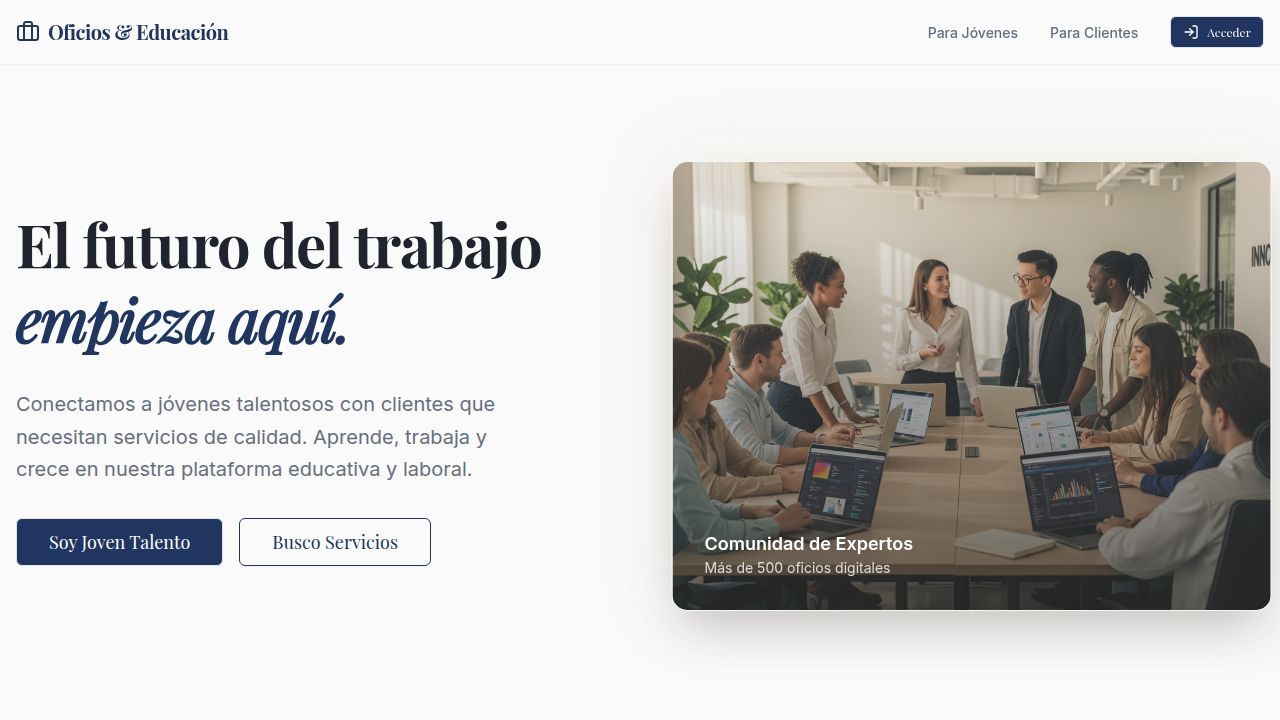
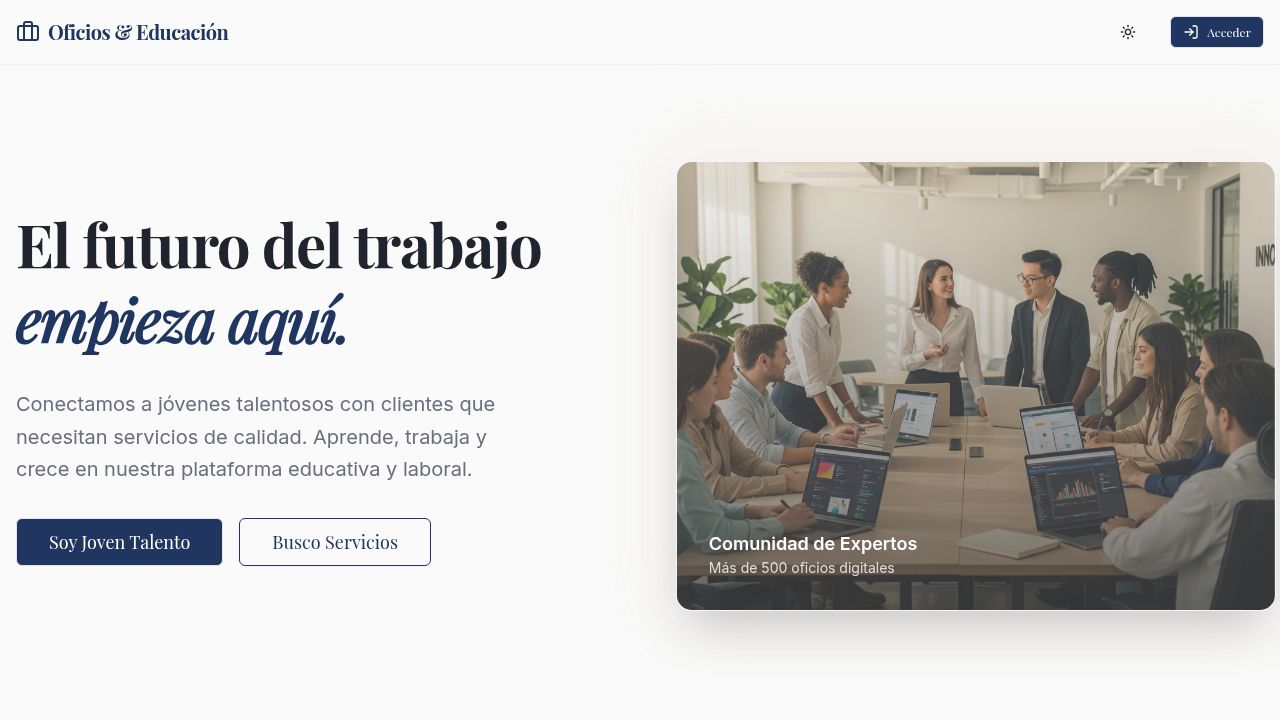
Add interactive notification center and dark mode toggle to app
Adds a notification dropdown menu with unread indicators and a dark/light mode toggle button to the application layout. Also integrates a schedule calendar into the young talent dashboard.

Replit-Commit-Author: Agent
Replit-Commit-Session-Id: 5f4dba74-aeb8-4fcd-b1c0-9943158faab3
Replit-Commit-Checkpoint-Type: full_checkpoint
Replit-Commit-Event-Id: 52b18488-e156-4f48-922d-1d2c44283cdb
Replit-Commit-Screenshot-Url: https://storage.googleapis.com/screenshot-production-us-central1/24c9d968-7bf2-47d6-997f-ea923057b096/5f4dba74-aeb8-4fcd-b1c0-9943158faab3/rmZ1bWy
Replit-Helium-Checkpoint-Created: true

diff --git a/client/src/pages/dashboard-young.tsx b/client/src/pages/dashboard-young.tsx
@@ -16,6 +16,7 @@ import { QuizModal } from "@/components/quiz-modal";
 import { Separator } from "@/components/ui/separator";
 import { ScrollArea } from "@/components/ui/scroll-area";
 import { Textarea } from "@/components/ui/textarea";
+import { ScheduleCalendar } from "@/components/schedule-calendar";
 
 export default function YoungDashboard() {
   const { toast } = useToast();
@@ -98,10 +99,11 @@ export default function YoungDashboard() {
         </div>
 
         <Tabs defaultValue="available" className="w-full">
-          <TabsList className="mb-6 h-auto p-1 bg-muted/30 rounded-full border border-border/50">
-            <TabsTrigger value="available" className="rounded-full px-6 py-2 data-[state=active]:bg-primary data-[state=active]:text-primary-foreground">Oportunidades</TabsTrigger>
-            <TabsTrigger value="courses" className="rounded-full px-6 py-2 data-[state=active]:bg-primary data-[state=active]:text-primary-foreground">Mis Cursos</TabsTrigger>
-            <TabsTrigger value="stats" className="rounded-full px-6 py-2 data-[state=active]:bg-primary data-[state=active]:text-primary-foreground">Estadísticas</TabsTrigger>
+          <TabsList className="mb-6 h-auto p-1 bg-muted/30 rounded-full border border-border/50 flex-wrap justify-start overflow-auto">
+            <TabsTrigger value="available" className="rounded-full px-6 py-2 data-[state=active]:bg-primary data-[state=active]:text-primary-foreground flex-1 min-w-[120px]">Oportunidades</TabsTrigger>
+            <TabsTrigger value="courses" className="rounded-full px-6 py-2 data-[state=active]:bg-primary data-[state=active]:text-primary-foreground flex-1 min-w-[120px]">Mis Cursos</TabsTrigger>
+            <TabsTrigger value="agenda" className="rounded-full px-6 py-2 data-[state=active]:bg-primary data-[state=active]:text-primary-foreground flex-1 min-w-[120px]">Agenda</TabsTrigger>
+            <TabsTrigger value="stats" className="rounded-full px-6 py-2 data-[state=active]:bg-primary data-[state=active]:text-primary-foreground flex-1 min-w-[120px]">Estadísticas</TabsTrigger>
           </TabsList>
 
           <TabsContent value="available" className="space-y-6 animate-in fade-in duration-500">
@@ -195,6 +197,41 @@ export default function YoungDashboard() {
                 </Card>
               ))}
             </div>
+          </TabsContent>
+
+          <TabsContent value="agenda" className="animate-in fade-in duration-500">
+             <div className="grid md:grid-cols-3 gap-6">
+               <div className="md:col-span-2">
+                 <ScheduleCalendar />
+               </div>
+               <div className="space-y-4">
+                 <Card className="bg-primary/5 border-none">
+                    <CardHeader>
+                      <CardTitle className="text-lg">Próximos Recordatorios</CardTitle>
+                    </CardHeader>
+                    <CardContent className="space-y-4">
+                      <div className="flex gap-3 items-start">
+                        <div className="bg-blue-100 p-2 rounded-full text-blue-600 mt-1">
+                          <Clock className="h-4 w-4" />
+                        </div>
+                        <div>
+                          <p className="font-medium text-sm">Entrega de Proyecto</p>
+                          <p className="text-xs text-muted-foreground">En 2 días</p>
+                        </div>
+                      </div>
+                      <div className="flex gap-3 items-start">
+                        <div className="bg-green-100 p-2 rounded-full text-green-600 mt-1">
+                          <CheckCircle className="h-4 w-4" />
+                        </div>
+                        <div>
+                          <p className="font-medium text-sm">Completar Perfil</p>
+                          <p className="text-xs text-muted-foreground">Aumenta tu visibilidad</p>
+                        </div>
+                      </div>
+                    </CardContent>
+                 </Card>
+               </div>
+             </div>
           </TabsContent>
           
           <TabsContent value="stats" className="animate-in fade-in duration-500">

diff --git a/client/src/components/schedule-calendar.tsx b/client/src/components/schedule-calendar.tsx
@@ -1,0 +1,87 @@
+import { Card, CardContent, CardHeader, CardTitle } from "@/components/ui/card";
+import { Badge } from "@/components/ui/badge";
+import { Calendar as CalendarIcon, Clock, MapPin } from "lucide-react";
+
+export function ScheduleCalendar() {
+  // Mock upcoming events
+  const events = [
+    { id: 1, day: "Hoy", date: "15 Oct", title: "Instalación Eléctrica", client: "Ana García", time: "14:00 - 16:00", type: "work" },
+    { id: 2, day: "Mañana", date: "16 Oct", title: "Clase: React Hooks", client: "Curso Online", time: "10:00 - 11:30", type: "study" },
+    { id: 3, day: "Jueves", date: "17 Oct", title: "Entrega de Diseño", client: "Restaurante El Buen Sabor", time: "09:00", type: "deadline" },
+  ];
+
+  const getTypeColor = (type: string) => {
+    switch (type) {
+      case 'work': return 'bg-blue-100 text-blue-700 border-blue-200';
+      case 'study': return 'bg-purple-100 text-purple-700 border-purple-200';
+      case 'deadline': return 'bg-red-100 text-red-700 border-red-200';
+      default: return 'bg-gray-100';
+    }
+  };
+
+  return (
+    <div className="space-y-6">
+      <div className="flex items-center justify-between">
+        <h3 className="text-xl font-bold font-serif">Mi Agenda</h3>
+        <Badge variant="outline" className="gap-1">
+          <CalendarIcon className="h-3 w-3" /> Octubre 2023
+        </Badge>
+      </div>
+
+      <div className="grid gap-4">
+        {events.map((evt) => (
+          <Card key={evt.id} className="overflow-hidden border-l-4 border-l-primary shadow-sm hover:shadow-md transition-shadow">
+            <div className="flex flex-col sm:flex-row">
+              <div className="bg-muted/30 p-4 flex flex-col items-center justify-center min-w-[100px] border-r border-border/50">
+                <span className="text-xs font-semibold text-muted-foreground uppercase">{evt.day}</span>
+                <span className="text-2xl font-bold text-primary">{evt.date.split(' ')[0]}</span>
+              </div>
+              <div className="p-4 flex-1 flex flex-col justify-center gap-1">
+                <div className="flex justify-between items-start">
+                  <h4 className="font-bold text-lg">{evt.title}</h4>
+                  <Badge variant="secondary" className={`text-[10px] border ${getTypeColor(evt.type)}`}>
+                    {evt.type === 'work' ? 'Trabajo' : evt.type === 'study' ? 'Estudio' : 'Entrega'}
+                  </Badge>
+                </div>
+                <p className="text-sm text-muted-foreground">{evt.client}</p>
+                <div className="flex items-center gap-4 mt-2 text-xs text-muted-foreground font-medium">
+                  <div className="flex items-center gap-1">
+                    <Clock className="h-3.5 w-3.5 text-primary" /> {evt.time}
+                  </div>
+                  {evt.type === 'work' && (
+                    <div className="flex items-center gap-1">
+                      <MapPin className="h-3.5 w-3.5 text-primary" /> Norte
+                    </div>
+                  )}
+                </div>
+              </div>
+            </div>
+          </Card>
+        ))}
+      </div>
+      
+      {/* Mini Calendar Visual Mock */}
+      <Card className="p-4">
+        <div className="grid grid-cols-7 text-center text-sm mb-2">
+          {['L', 'M', 'M', 'J', 'V', 'S', 'D'].map(d => (
+            <div key={d} className="font-bold text-muted-foreground py-1">{d}</div>
+          ))}
+        </div>
+        <div className="grid grid-cols-7 gap-1 text-center text-sm">
+           {Array.from({length: 31}, (_, i) => i + 1).map(d => (
+             <div 
+               key={d} 
+               className={`py-2 rounded-md ${
+                 d === 15 ? 'bg-primary text-primary-foreground font-bold' : 
+                 d === 16 || d === 17 ? 'bg-primary/10 text-primary' : 
+                 'hover:bg-muted cursor-pointer'
+               }`}
+             >
+               {d}
+             </div>
+           ))}
+        </div>
+      </Card>
+    </div>
+  );
+}

diff --git a/client/src/components/layout.tsx b/client/src/components/layout.tsx
@@ -13,6 +13,10 @@ import {
   DropdownMenuTrigger,
 } from "@/components/ui/dropdown-menu";
 
+import { Badge } from "@/components/ui/badge";
+import { NotificationsDropdown } from "./notifications-dropdown";
+import { ModeToggle } from "./mode-toggle";
+
 export function Layout({ children }: { children: React.ReactNode }) {
   const [location] = useLocation();
   const [isMenuOpen, setIsMenuOpen] = useState(false);
@@ -33,9 +37,11 @@ export function Layout({ children }: { children: React.ReactNode }) {
           </Link>
 
           {/* Desktop Nav */}
-          <div className="hidden md:flex items-center gap-8">
+          <div className="hidden md:flex items-center gap-6">
+            <ModeToggle />
             {user ? (
               <>
+                <NotificationsDropdown />
                 <Link href={user.rol === 'CLIENTE' ? "/dashboard-client" : "/dashboard-young"}>
                   <a className={`text-sm font-medium transition-colors hover:text-primary ${isActive(user.rol === 'CLIENTE' ? '/dashboard-client' : '/dashboard-young') ? 'text-primary' : 'text-muted-foreground'}`}>
                     Mi Dashboard
@@ -44,8 +50,8 @@ export function Layout({ children }: { children: React.ReactNode }) {
                 
                 <DropdownMenu>
                   <DropdownMenuTrigger asChild>
-                    <Button variant="ghost" className="relative h-8 w-8 rounded-full">
-                      <Avatar className="h-8 w-8">
+                    <Button variant="ghost" className="relative h-8 w-8 rounded-full ml-2">
+                      <Avatar className="h-8 w-8 border border-border">
                         <AvatarImage src={`https://api.dicebear.com/7.x/avataaars/svg?seed=${user.id}`} alt={user.nombre} />
                         <AvatarFallback>{user.nombre.charAt(0)}</AvatarFallback>
                       </Avatar>
@@ -79,12 +85,15 @@ export function Layout({ children }: { children: React.ReactNode }) {
           </div>
 
           {/* Mobile Menu Button */}
-          <button 
-            className="md:hidden p-2 text-foreground"
-            onClick={() => setIsMenuOpen(!isMenuOpen)}
-          >
-            {isMenuOpen ? <X /> : <Menu />}
-          </button>
+          <div className="flex items-center gap-2 md:hidden">
+            <ModeToggle />
+            <button 
+              className="p-2 text-foreground"
+              onClick={() => setIsMenuOpen(!isMenuOpen)}
+            >
+              {isMenuOpen ? <X /> : <Menu />}
+            </button>
+          </div>
         </div>
 
         {/* Mobile Nav */}
@@ -92,6 +101,10 @@ export function Layout({ children }: { children: React.ReactNode }) {
           <div className="md:hidden border-t border-border bg-background p-4 flex flex-col gap-4 shadow-lg animate-in slide-in-from-top-5">
             {user ? (
               <>
+                 <div className="flex items-center justify-between p-2">
+                    <span className="text-sm font-medium">Notificaciones</span>
+                    <Badge variant="secondary">3</Badge>
+                 </div>
                  <Link href={user.rol === 'CLIENTE' ? "/dashboard-client" : "/dashboard-young"}>
                   <a onClick={() => setIsMenuOpen(false)} className="flex items-center gap-2 text-sm font-medium p-2 hover:bg-muted rounded-md">
                     <User className="h-4 w-4" /> Mi Dashboard

diff --git a/client/src/components/notifications-dropdown.tsx b/client/src/components/notifications-dropdown.tsx
@@ -1,0 +1,73 @@
+import {
+  DropdownMenu,
+  DropdownMenuContent,
+  DropdownMenuItem,
+  DropdownMenuLabel,
+  DropdownMenuSeparator,
+  DropdownMenuTrigger,
+} from "@/components/ui/dropdown-menu";
+import { Button } from "@/components/ui/button";
+import { Bell } from "lucide-react";
+import { useState } from "react";
+import { Badge } from "@/components/ui/badge";
+
+export function NotificationsDropdown() {
+  const [notifications, setNotifications] = useState([
+    { id: 1, title: "Nuevo mensaje", desc: "Cliente Demo te ha enviado un mensaje.", time: "Hace 5 min", unread: true },
+    { id: 2, title: "Solicitud Aceptada", desc: "Tu aplicación para 'Diseño Web' fue vista.", time: "Hace 1 hora", unread: true },
+    { id: 3, title: "Recordatorio de Curso", desc: "Continúa tu curso de Marketing Digital.", time: "Hace 1 día", unread: false },
+  ]);
+
+  const unreadCount = notifications.filter(n => n.unread).length;
+
+  const markAllRead = () => {
+    setNotifications(notifications.map(n => ({ ...n, unread: false })));
+  };
+
+  return (
+    <DropdownMenu>
+      <DropdownMenuTrigger asChild>
+        <Button variant="ghost" size="icon" className="relative">
+          <Bell className="h-5 w-5" />
+          {unreadCount > 0 && (
+            <Badge className="absolute -top-1 -right-1 h-5 w-5 flex items-center justify-center p-0 text-[10px] bg-red-500 hover:bg-red-600 border-2 border-background">
+              {unreadCount}
+            </Badge>
+          )}
+        </Button>
+      </DropdownMenuTrigger>
+      <DropdownMenuContent align="end" className="w-80">
+        <DropdownMenuLabel className="flex justify-between items-center">
+          Notificaciones
+          {unreadCount > 0 && (
+            <span className="text-xs font-normal text-primary cursor-pointer hover:underline" onClick={markAllRead}>
+              Marcar leídas
+            </span>
+          )}
+        </DropdownMenuLabel>
+        <DropdownMenuSeparator />
+        <div className="max-h-[300px] overflow-y-auto">
+          {notifications.length === 0 ? (
+            <div className="p-4 text-center text-sm text-muted-foreground">
+              No tienes notificaciones.
+            </div>
+          ) : (
+            notifications.map((n) => (
+              <DropdownMenuItem key={n.id} className={`flex flex-col items-start p-3 cursor-pointer ${n.unread ? 'bg-muted/30' : ''}`}>
+                <div className="flex justify-between w-full mb-1">
+                  <span className={`text-sm font-medium ${n.unread ? 'text-primary' : ''}`}>{n.title}</span>
+                  <span className="text-[10px] text-muted-foreground">{n.time}</span>
+                </div>
+                <p className="text-xs text-muted-foreground line-clamp-2">{n.desc}</p>
+              </DropdownMenuItem>
+            ))
+          )}
+        </div>
+        <DropdownMenuSeparator />
+        <DropdownMenuItem className="justify-center text-xs text-muted-foreground cursor-pointer">
+          Ver todas las notificaciones
+        </DropdownMenuItem>
+      </DropdownMenuContent>
+    </DropdownMenu>
+  );
+}

diff --git a/client/src/components/mode-toggle.tsx b/client/src/components/mode-toggle.tsx
@@ -1,0 +1,28 @@
+import { Moon, Sun } from "lucide-react";
+import { Button } from "@/components/ui/button";
+import { useEffect, useState } from "react";
+
+export function ModeToggle() {
+  const [theme, setTheme] = useState<"light" | "dark">("light");
+
+  useEffect(() => {
+    const isDark = document.documentElement.classList.contains("dark");
+    setTheme(isDark ? "dark" : "light");
+  }, []);
+
+  const toggleTheme = () => {
+    const newTheme = theme === "light" ? "dark" : "light";
+    setTheme(newTheme);
+    const root = window.document.documentElement;
+    root.classList.remove("light", "dark");
+    root.classList.add(newTheme);
+  };
+
+  return (
+    <Button variant="ghost" size="icon" onClick={toggleTheme}>
+      <Sun className="h-[1.2rem] w-[1.2rem] rotate-0 scale-100 transition-all dark:-rotate-90 dark:scale-0" />
+      <Moon className="absolute h-[1.2rem] w-[1.2rem] rotate-90 scale-0 transition-all dark:rotate-0 dark:scale-100" />
+      <span className="sr-only">Cambiar tema</span>
+    </Button>
+  );
+}
